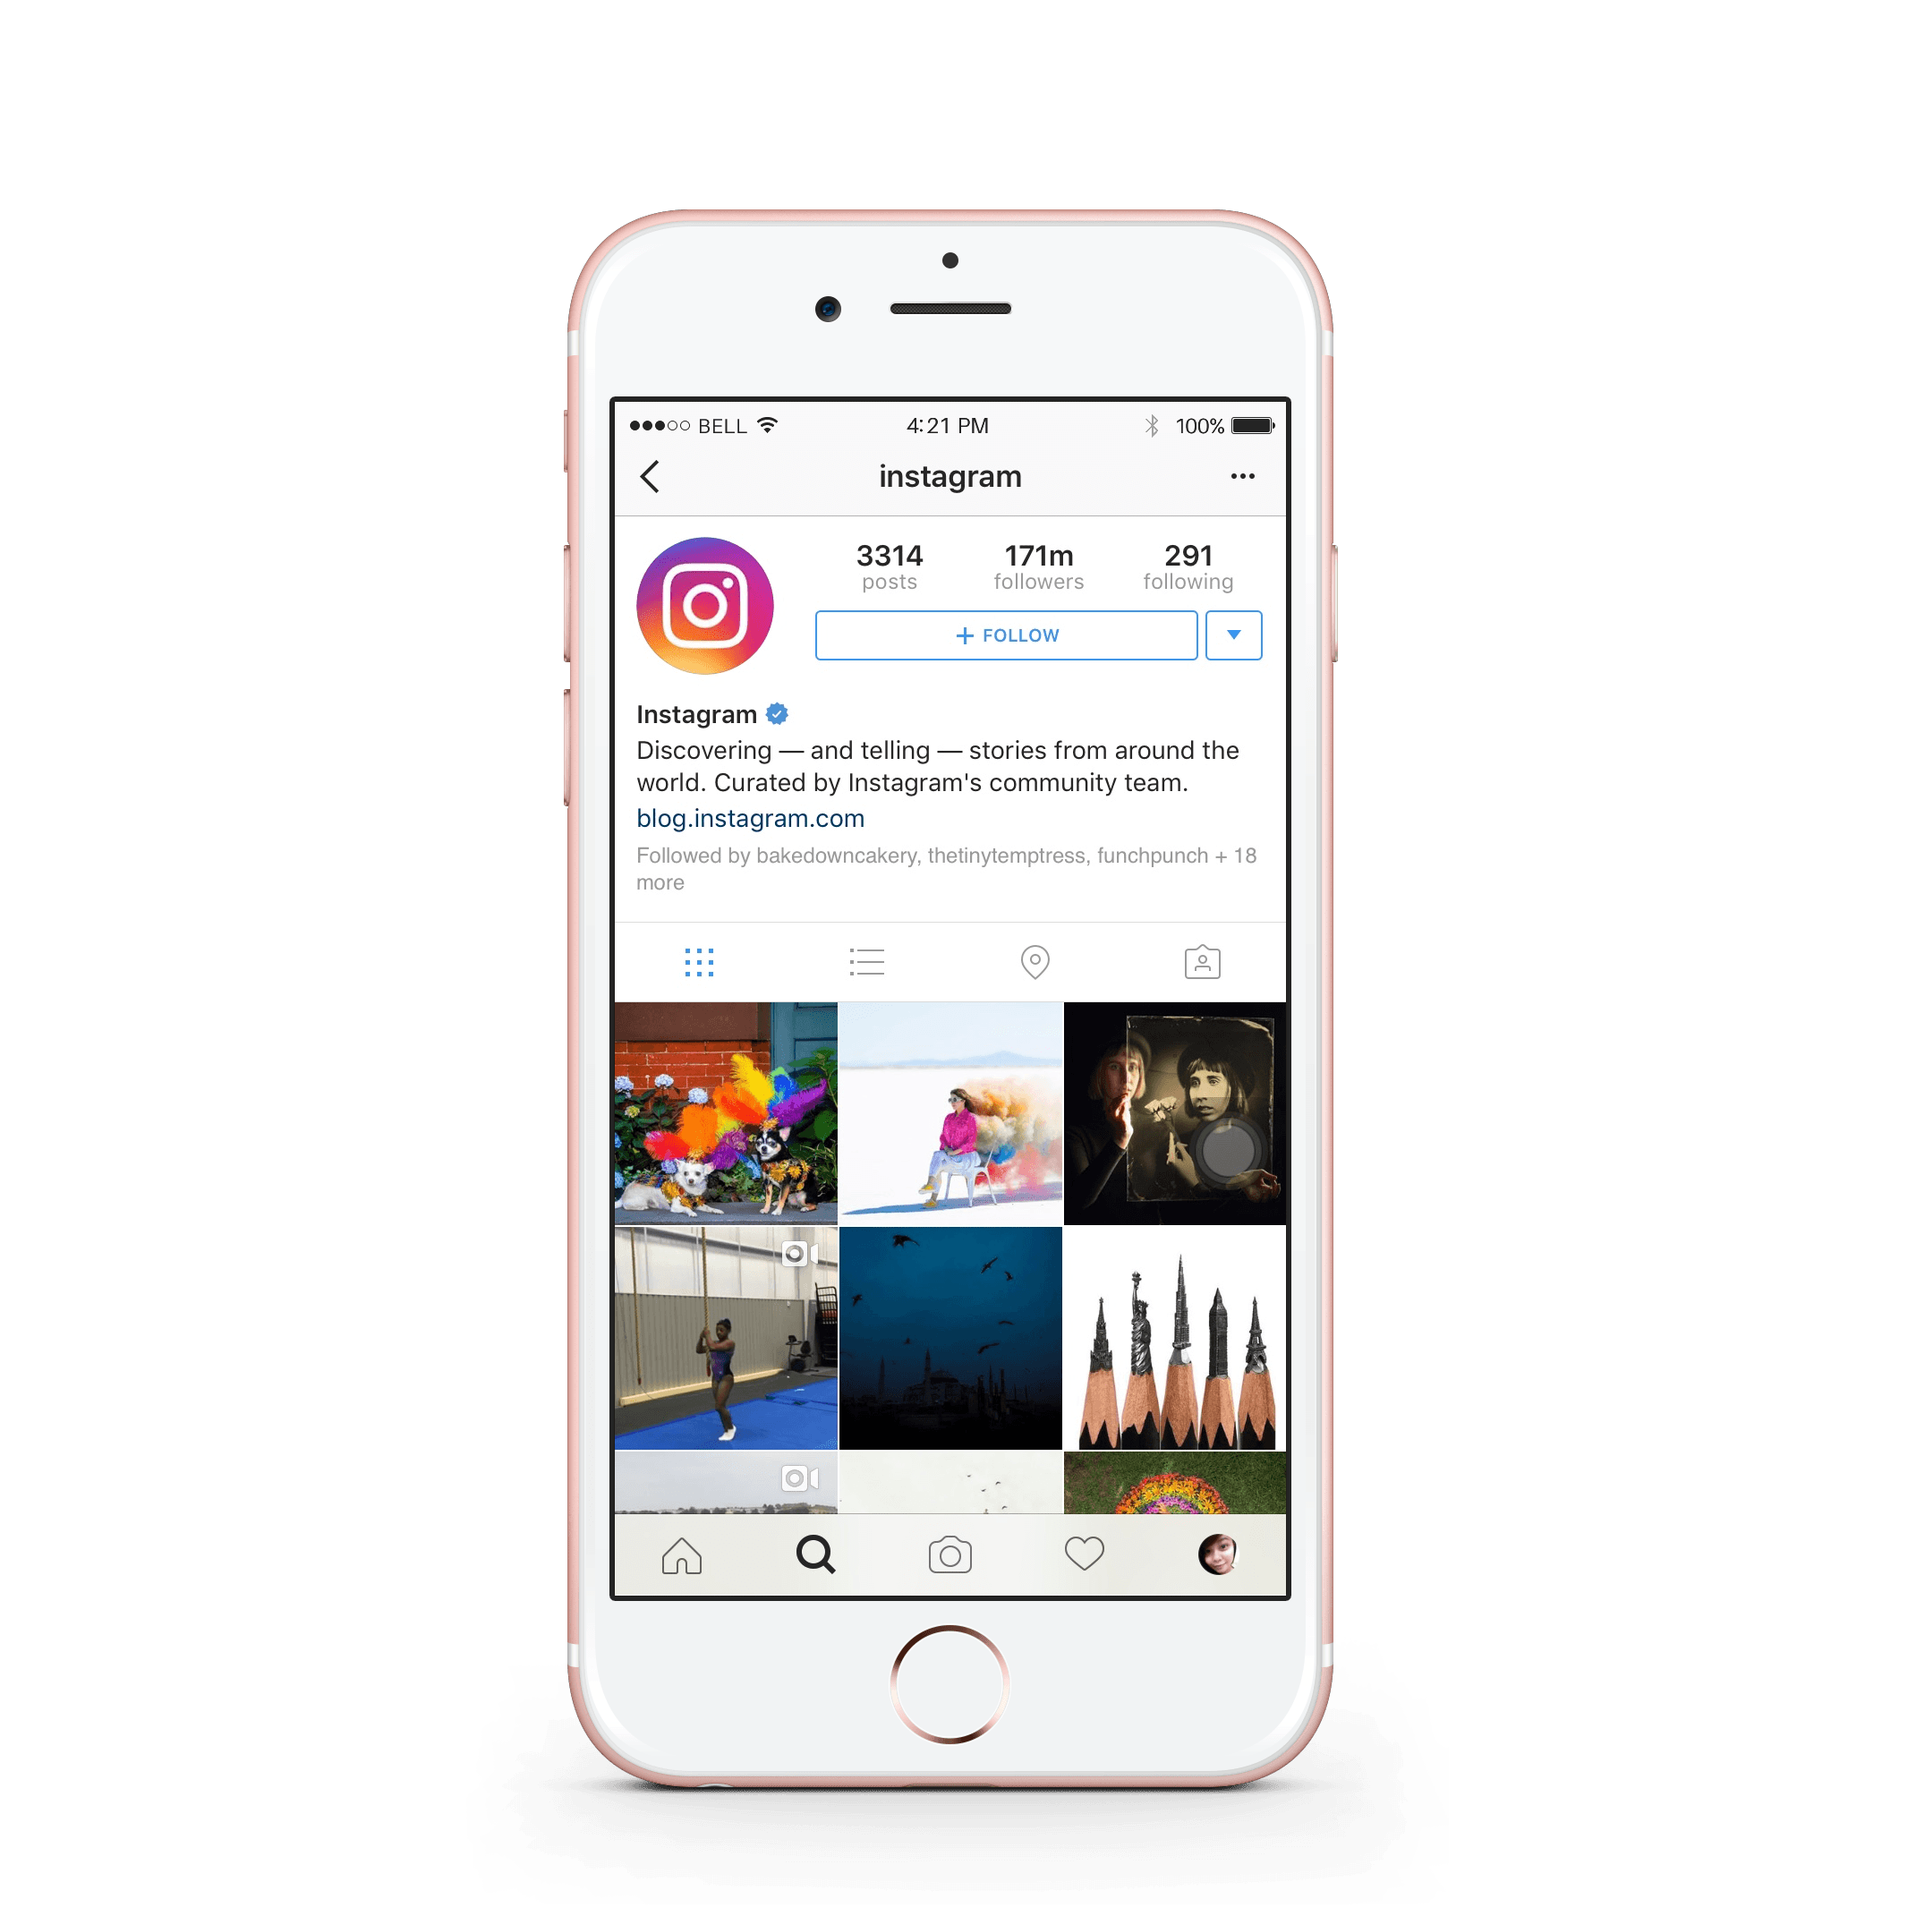
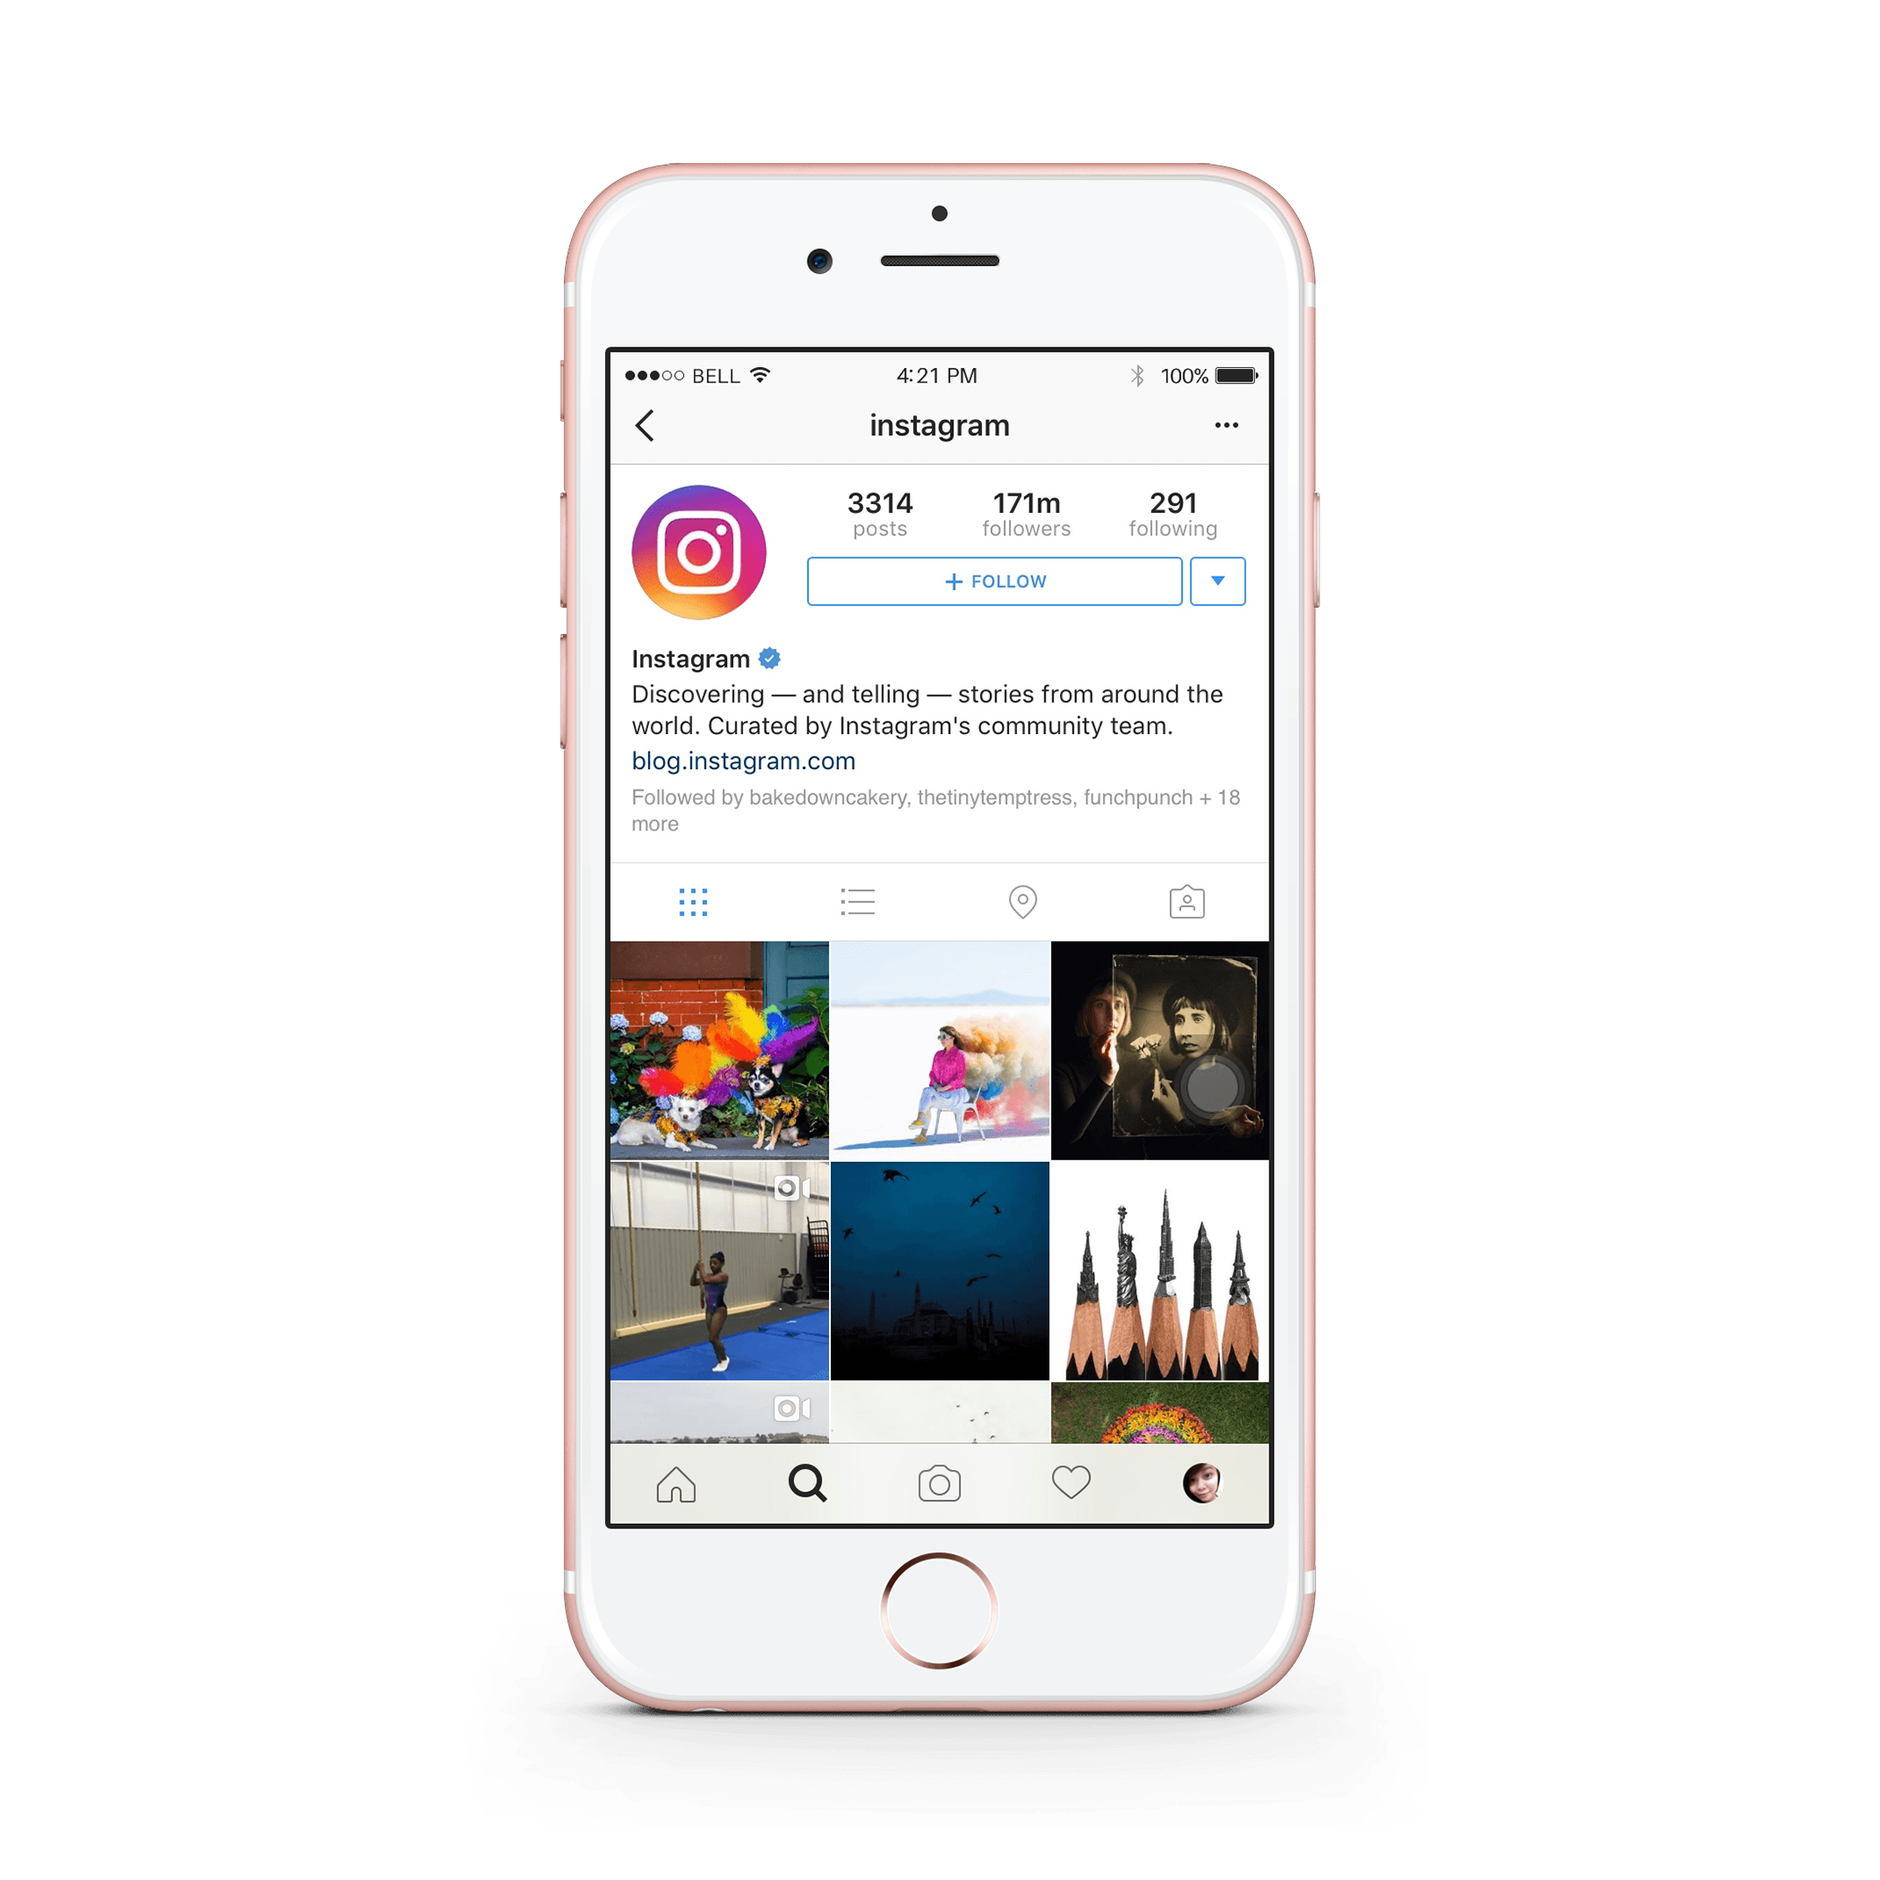
phone img fix size

Changed region(s): [[0.2786, 0.0619, 0.7119, 0.9595]]

diff --git a/css/style.css b/css/style.css
@@ -34,7 +34,7 @@ body {
 }
 
 .instagram-phone img {
-  height: 50rem;
+  height: 600px;
 }
 
 .instagram-continue {
